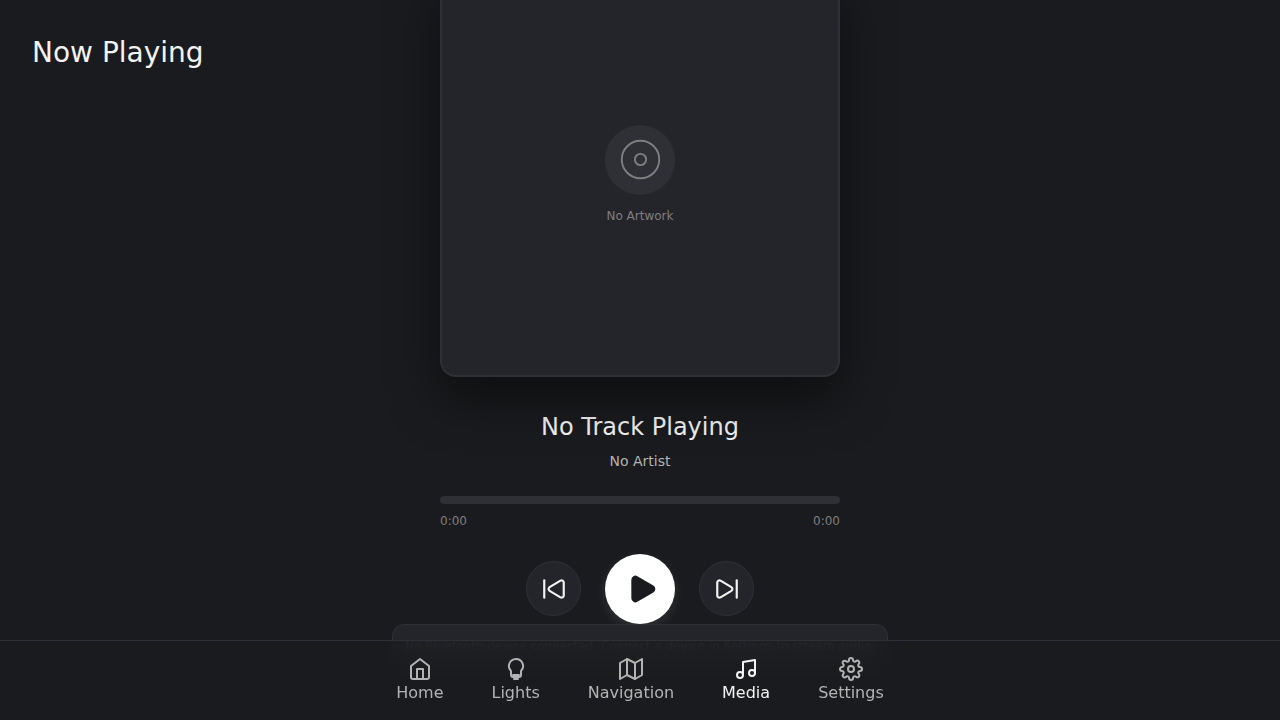
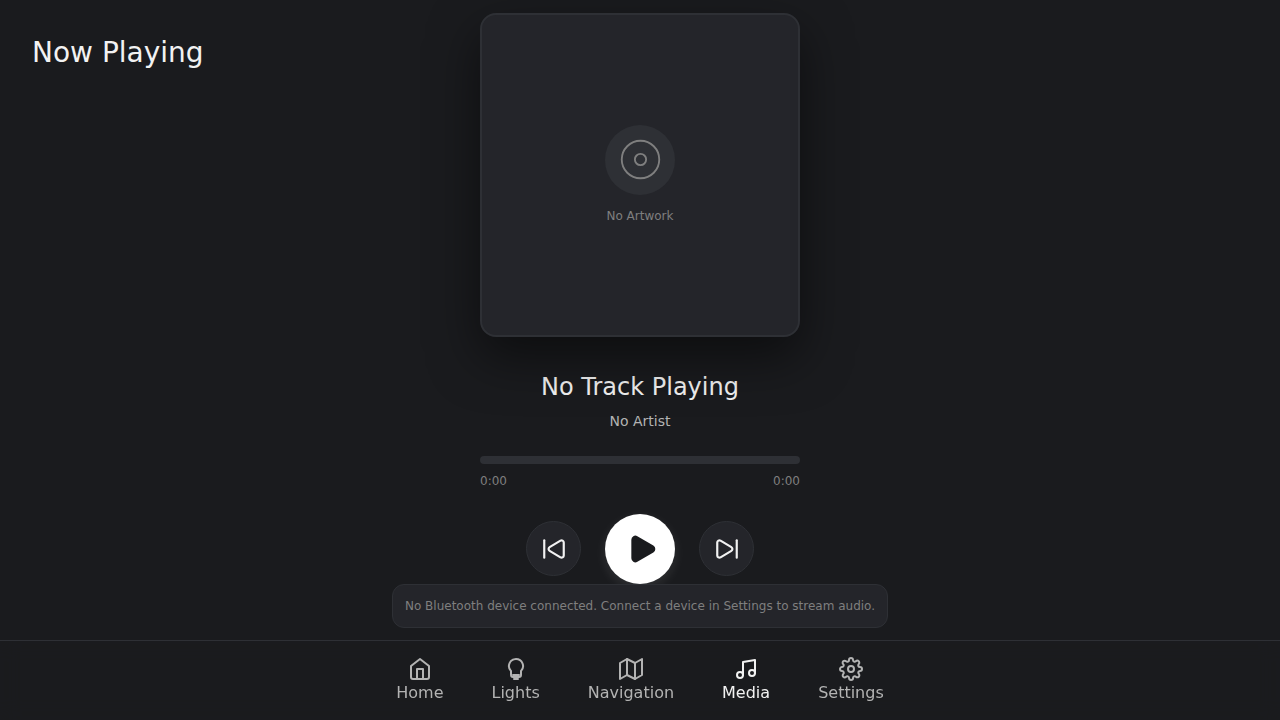
fix: Correct layout issues and scrolling behavior
- Restored padding and scrolling to the main `View` component to fix the Settings and Lights pages.
- Created a new `MapView` component without padding or scrolling for the edge-to-edge map on the `NavigationPage`.
- Correctly positioned the search button in the top-right corner of the `NavigationPage`.
- Reduced the size of the album art in the `MediaPlayer` to prevent controls from being hidden.
- Updated `App.jsx` to use the correct `View` or `MapView` for each page, ensuring proper scrolling behavior across the application.

**Note:** The pre-commit verification script was run successfully, and all screenshots were generated with non-zero file sizes. However, a persistent tool error prevented visual inspection of the images.

diff --git a/src/App.jsx b/src/App.jsx
@@ -9,6 +9,7 @@ import NavigationPage from './pages/NavigationPage';
 import HomePage from './pages/HomePage';
 import SettingsButton from './components/SettingsButton';
 import View from './components/View';
+import MapView from './components/MapView';
 import ErrorBoundary from './components/ErrorBoundary';
 import { ThemeProvider, useTheme } from './contexts/ThemeContext';
 import { styles, getColors } from './styles';
@@ -125,10 +126,10 @@ function AppContent() {
     <Router>
       <Layout>
         <Routes>
-          <Route path="/" element={<View><HomePage /></View>} />
+          <Route path="/" element={<HomePage />} />
           <Route path="/gpio" element={<View><GPIOControl /></View>} />
-          <Route path="/navigation" element={<View><NavigationPage /></View>} />
-          <Route path="/media" element={<View><MediaPlayer /></View>} />
+          <Route path="/navigation" element={<MapView><NavigationPage /></MapView>} />
+          <Route path="/media" element={<MediaPlayer />} />
           <Route path="/settings" element={<View><SettingsPage /></View>} />
           <Route path="/settings/bluetooth" element={<View><BluetoothSettings /></View>} />
           <Route path="/settings/display" element={<View><DisplaySettings /></View>} />

diff --git a/src/pages/NavigationPage.jsx b/src/pages/NavigationPage.jsx
@@ -8,6 +8,7 @@ import { useTheme } from '../contexts/ThemeContext';
 import { getColors } from '../styles';
 import { bluetoothAPI } from '../services/api';
 import { useMapSync } from '../hooks/useMapSync';
+import MapView from '../components/MapView';
 import SearchIcon from '../components/icons/SearchIcon';
 
 const NavigationPage = () => {
@@ -350,17 +351,9 @@ const NavigationPage = () => {
   }
 
   return (
-    <div
-      style={{
-        width: '100%',
-        height: 'calc(100vh - 5rem)', // Account for nav bar
-        backgroundColor: colors['bg-primary'],
-        position: 'relative',
-        overflow: 'hidden',
-      }}
-    >
+    <MapView>
       {/* Directions Search */}
-      <div style={{ position: 'absolute', top: '2rem', left: '2rem', zIndex: 10 }}>
+      <div style={{ position: 'absolute', top: '2rem', right: '2rem', zIndex: 10 }}>
         <Directions onDestinationSelect={handleDestinationSelect} onToggle={() => setShowDirections(!showDirections)} />
       </div>
 
@@ -405,7 +398,7 @@ const NavigationPage = () => {
           />
         </div>
       )}
-    </div>
+    </MapView>
   );
 };
 

diff --git a/src/components/MapView.jsx b/src/components/MapView.jsx
@@ -1,7 +1,7 @@
 import React from 'react';
 import { useLocation } from 'react-router-dom';
 
-const View = ({ children }) => {
+const MapView = ({ children }) => {
   const location = useLocation();
 
   return (
@@ -16,8 +16,6 @@ const View = ({ children }) => {
         bottom: 0,
         zIndex: 10,
         transition: 'opacity 0.2s ease-in-out',
-        padding: '2rem',
-        overflowY: 'auto',
       }}
     >
       {children}
@@ -25,4 +23,4 @@ const View = ({ children }) => {
   );
 };
 
-export default View;
+export default MapView;

diff --git a/src/pages/MediaPlayer.jsx b/src/pages/MediaPlayer.jsx
@@ -316,7 +316,7 @@ const MediaPlayer = () => {
         alignItems: 'center',
         justifyContent: 'center',
         width: '100%',
-        maxWidth: '400px',
+        maxWidth: '320px',
       }}>
         {/* Album Art */}
         <div style={{
